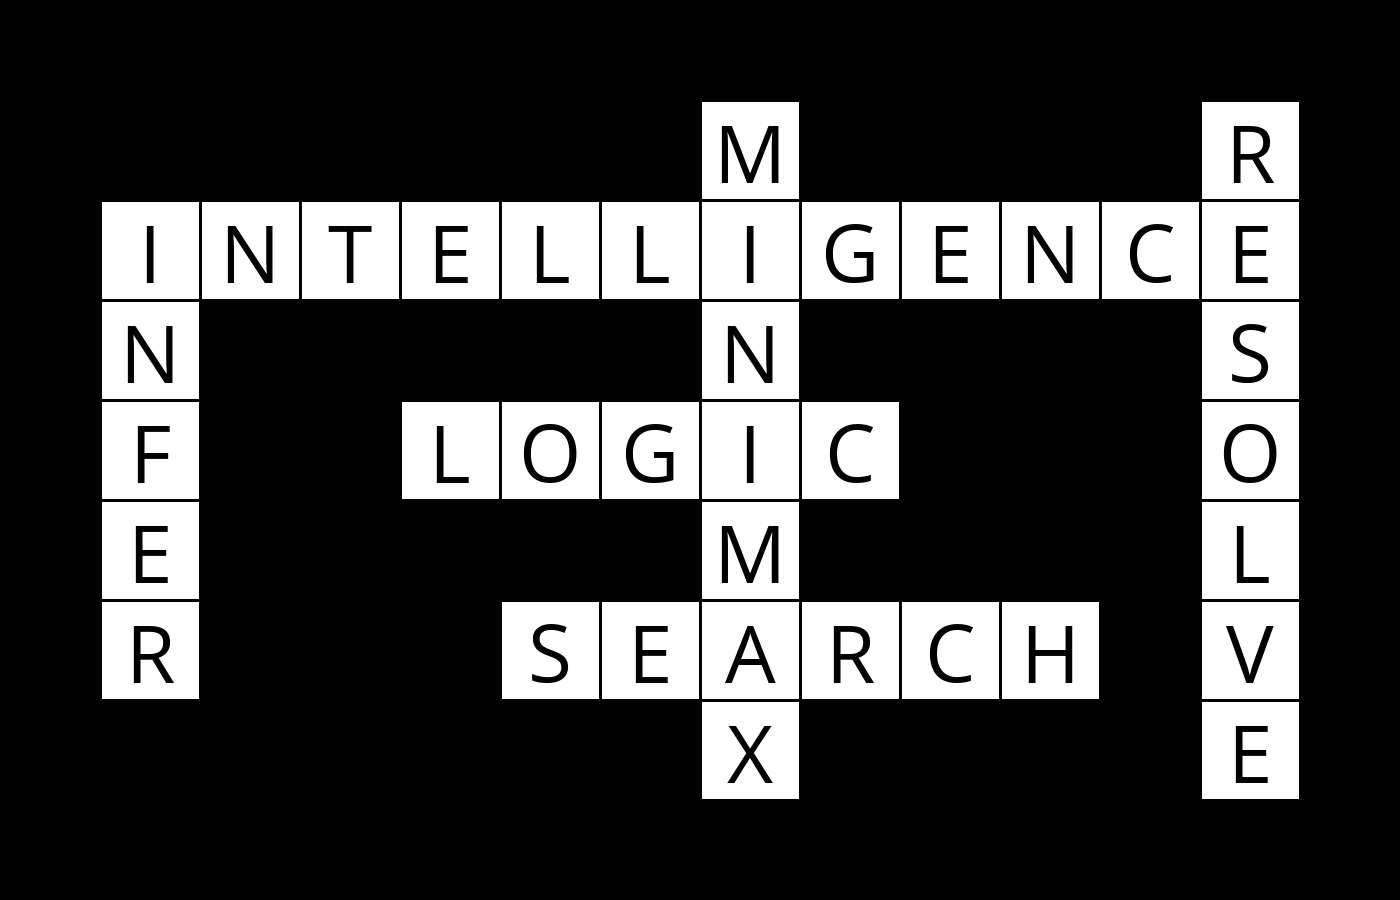
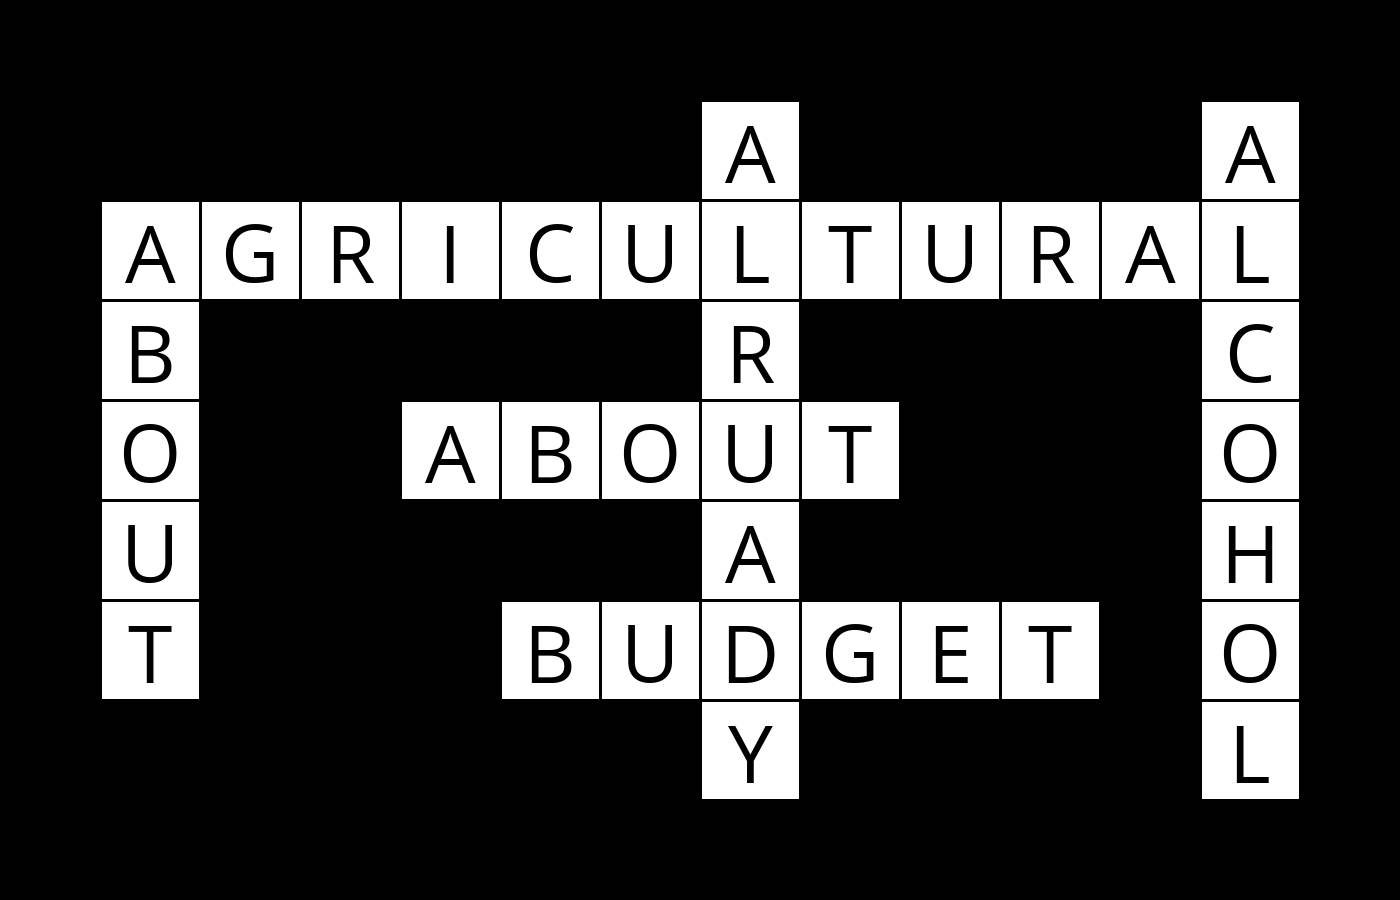
Finished the two functions and now all methods and such work

diff --git a/3 Optimization/generate.py b/3 Optimization/generate.py
@@ -208,10 +208,13 @@ class CrosswordCreator():
         """
         # Just return a list for now, nodifications can wait until the rest of this project is functional
         domain_len = dict()
-        domain_count = 0
         for val in self.domains[var]:
-            for neighbor in self.crossword.neighbors(var)
-        return list(self.domains[var])
+            domain_count = 0
+            for neighbor in self.crossword.neighbors(var):
+                if val in self.domains[neighbor]:
+                    domain_count += 1
+            domain_len[val] = domain_count
+        return sorted(domain_len)
 
     def select_unassigned_variable(self, assignment):
         """
@@ -231,7 +234,7 @@ class CrosswordCreator():
                     min_domain = cur_len
                 else:
                     cur_degree = len(self.crossword.neighbors(var))
-                    if cur_degree <= len(self.crosswor.neighbors(ret_var)):
+                    if cur_degree <= len(self.crossword.neighbors(ret_var)):
                         ret_var = var
                 ret_var = var
                 
